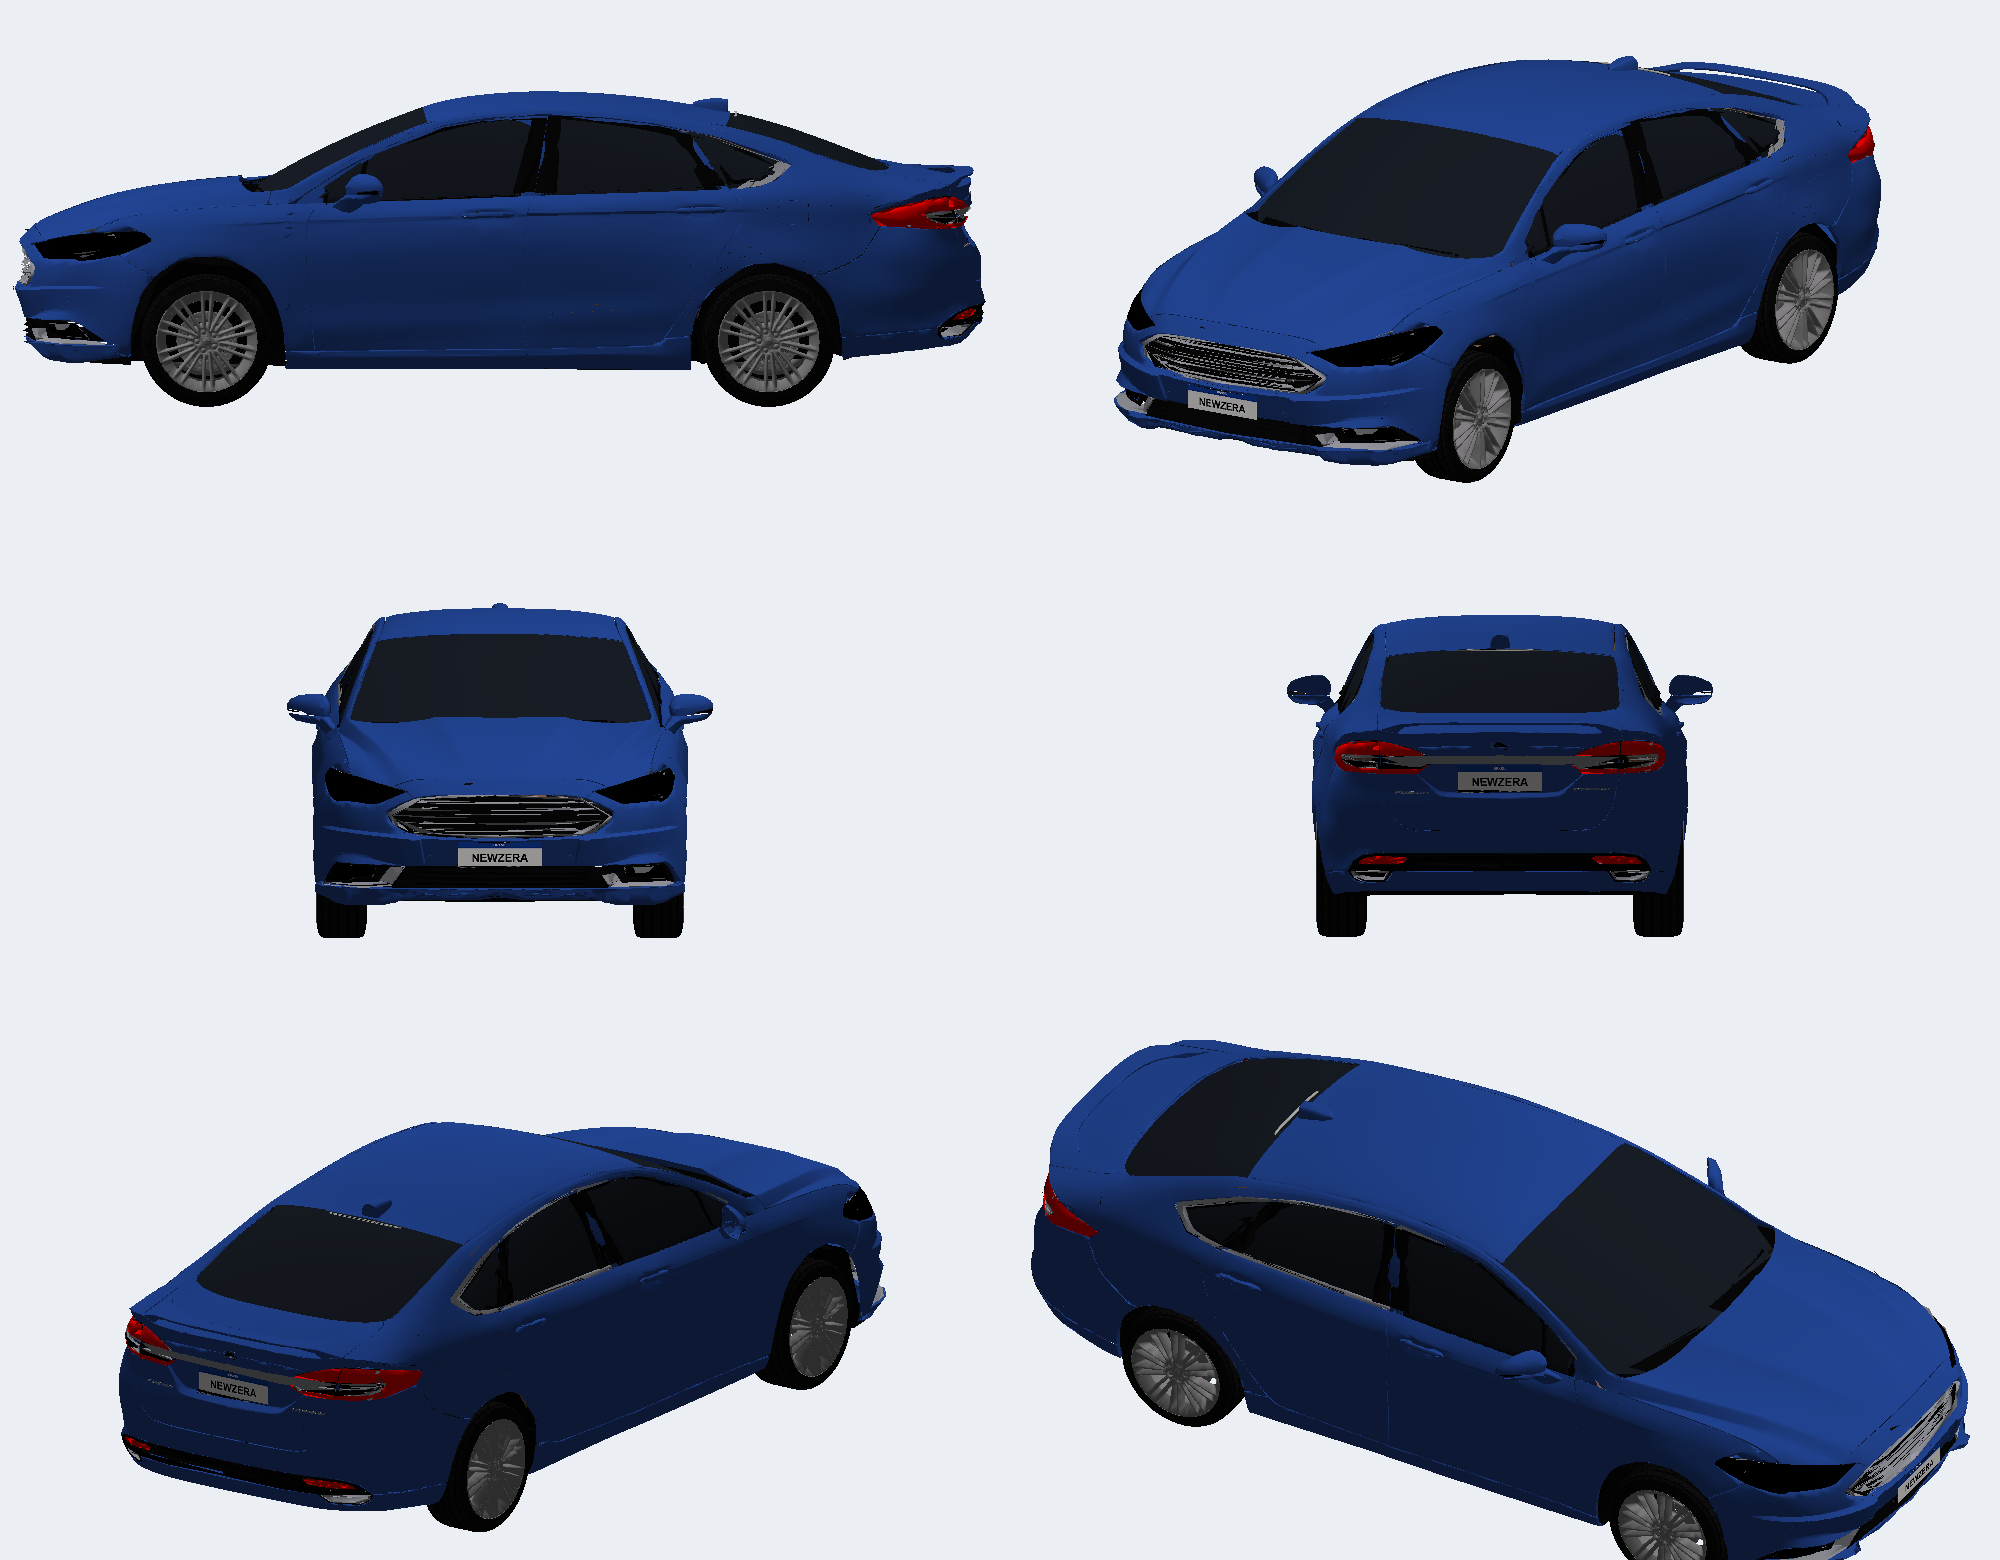
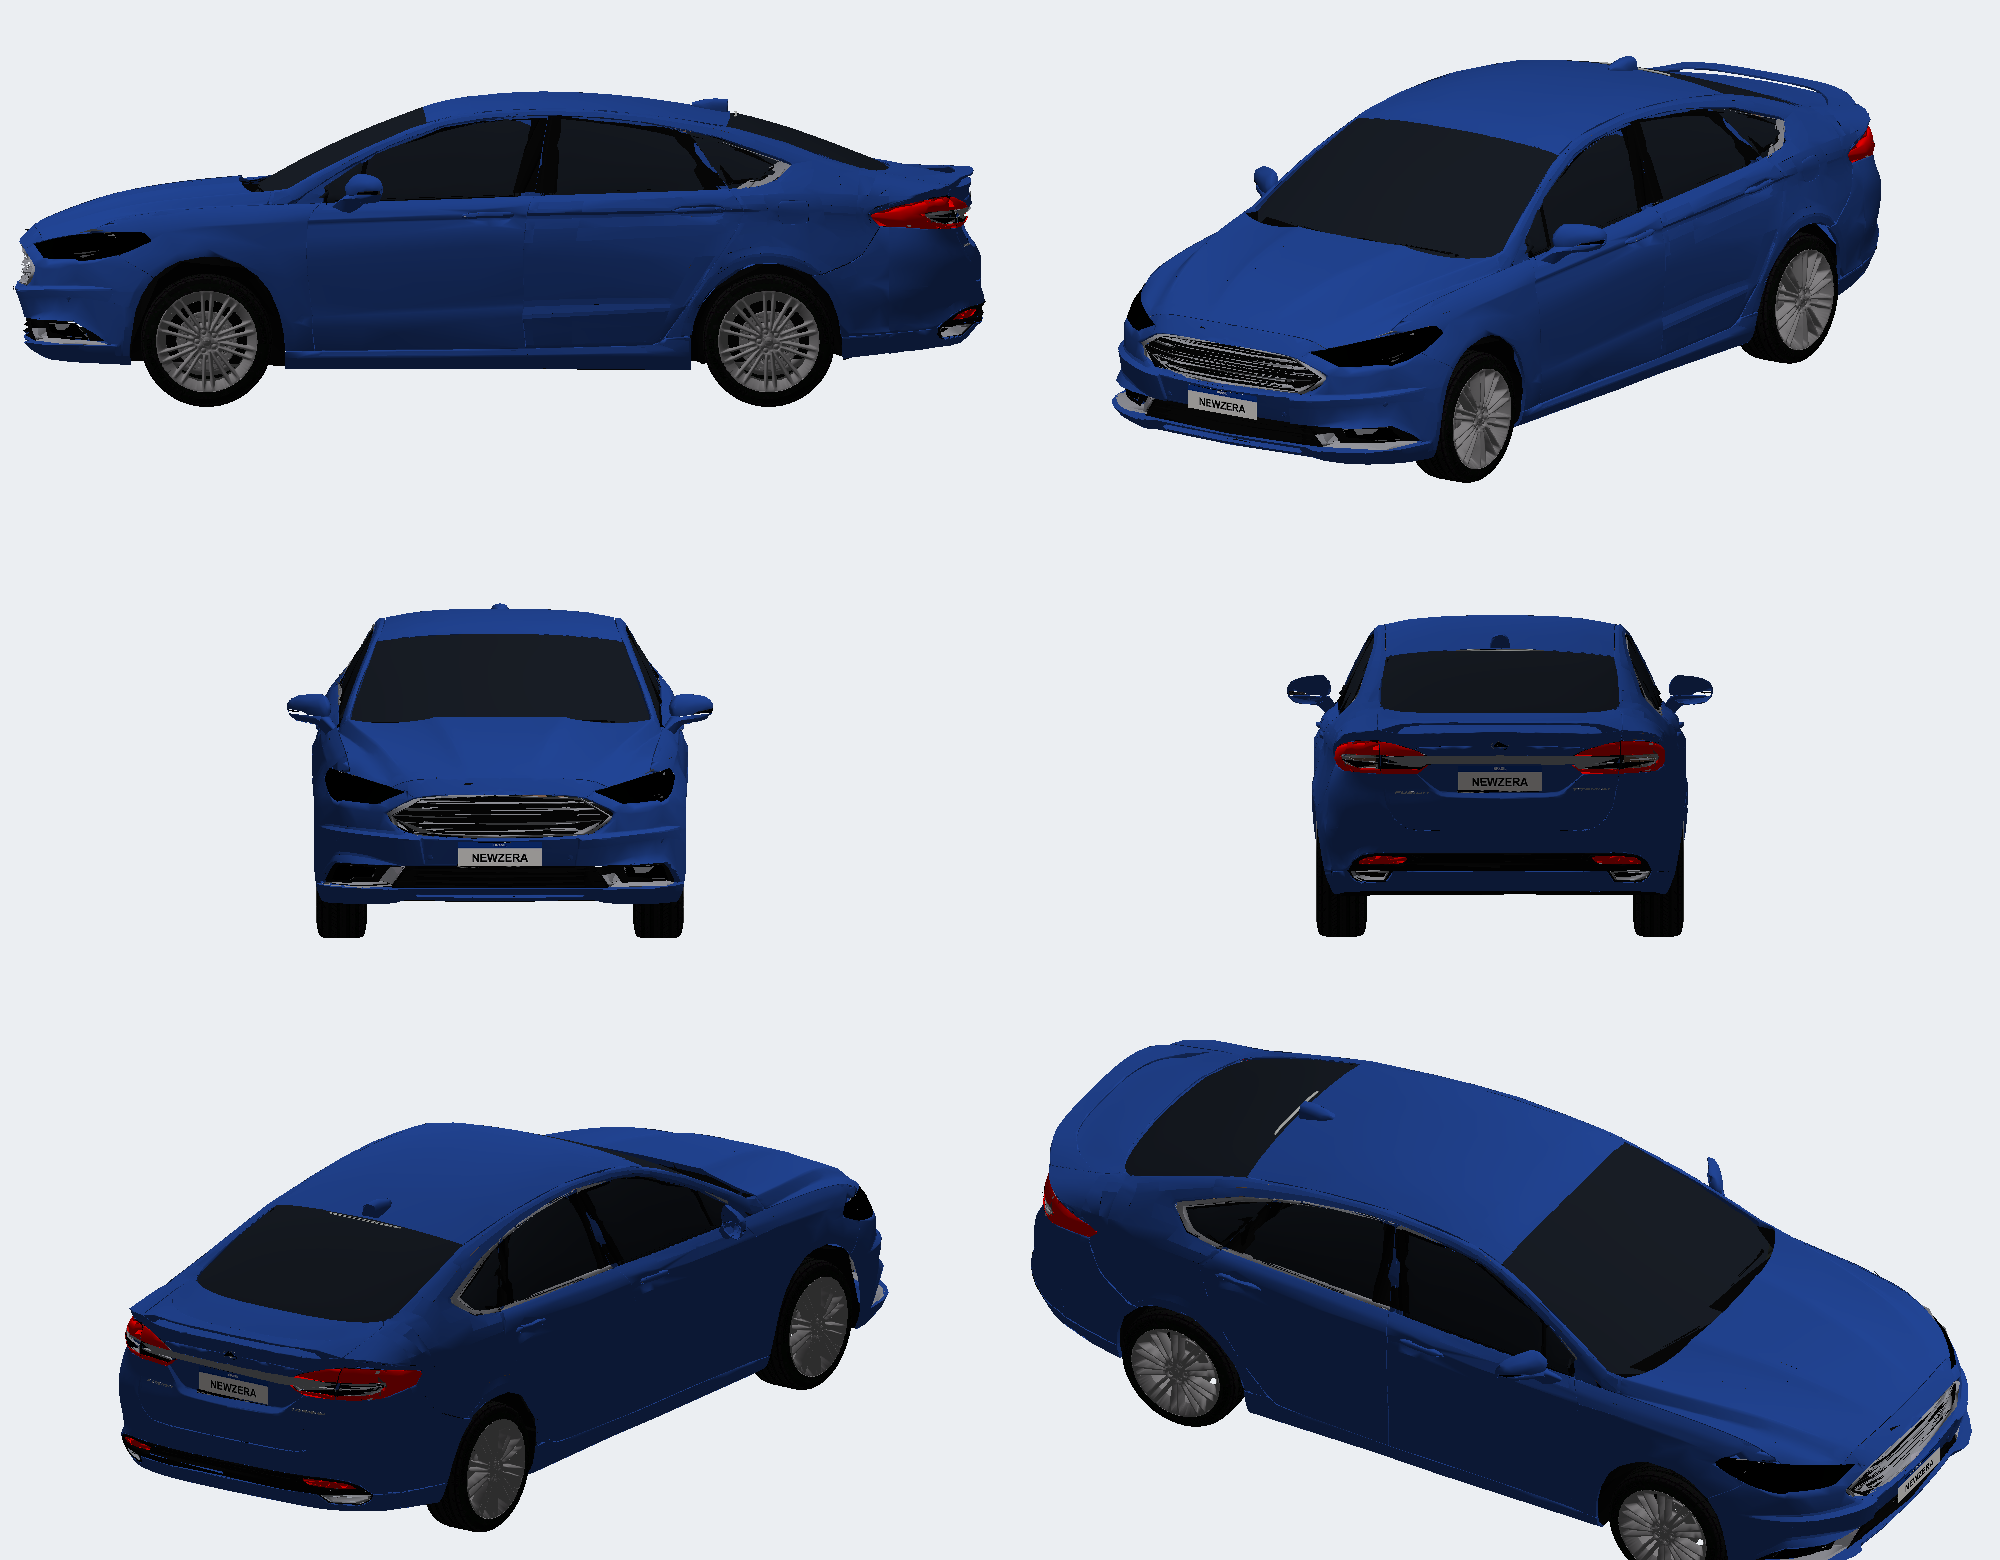
Volta a pintura às peças que o slot desenha (v9).
Na v8 o jogo não desenhou teto, portas e capô: o slot FOCUS só usa
BODY/BASE/TRUNK/WHEEL e adesivos. A pintura volta a ser LOD B com LOD A
no para-choque traseiro, no bico e na frente do teto, dentro dessas peças,
mantendo o bico sem emblema e a UV de vinil do Focus.

Claude-Session: https://claude.ai/code/session_01PkbAhtwcQ6j3iwpeiy6ts8

diff --git a/scripts/build.py b/scripts/build.py
@@ -193,14 +193,24 @@ def fill_recess(m, y0=0.24, z0=0.52, z1=0.70, xmin=2.12):
 
 restA, n_ = fill_recess(restA)
 LOG['nose_recess_filled_vertices'] = n_
-BELT_Z, DOOR_X = 0.95, 1.1
-roofA, lower = clip.split_box(restA, dict(zmin=BELT_Z))
-doors, bodyA = clip.split_box(lower, dict(xmin=-DOOR_X, xmax=DOOR_X))
-doorL, doorR = clip.split_box(doors, dict(ymin=0.0))
-body_paint = bodyA
-hood = outward_only(weld(P['MUSTANGGT_KIT00_HOOD_A']['groups'][0]), 'hood_A', clamp=(1.2, 1.9), zc=0.35)
-noseA = None
-A_parts = dict(roof=roofA, door_left=doorL, door_right=doorR, body=bodyA, trunk=trunk_paint, hood=hood)
+# v9: the FOCUS slot only draws BODY / BASE / TRUNK / WHEEL (+ decals): ROOF_A and DOOR_*_A are ignored
+# (v8 showed no roof, doors or hood). Paint = LOD B + LOD A where the game showed deformations
+# (rear bumper, nose, front edge of the roof); exact cuts so the LODs meet without steps.
+REAR_X, NOSE_X, NOSE_Y = -1.9, 2.0, 0.45
+BOXES = {'rear': dict(xmax=REAR_X), 'nose': dict(xmin=NOSE_X, ymin=-NOSE_Y, ymax=NOSE_Y, zmin=0.52, zmax=0.75),
+         'roof_front': dict(xmin=0.15, xmax=0.6, ymin=-0.5, ymax=0.5, zmin=1.05)}
+bB = body_paint; A_parts = {}
+for nm, box in BOXES.items():
+    _, bB = clip.split_box(bB, box)
+    ins, _ = clip.split_box(restA, box)
+    A_parts[nm] = ins
+rearA = A_parts['rear']
+noseA = merge([A_parts['nose'], A_parts['roof_front']])      # these go into BASE
+BODY_B_TARGET = 14900
+bB = dec(bB, BODY_B_TARGET, 'paint_B_flat')
+body_paint = merge([bB, rearA])
+hood = outward_only(weld(P['MUSTANGGT_KIT00_HOOD_B']['groups'][0]), 'hood_B', clamp=(1.2, 1.9), zc=0.35)
+A_parts['body_B'] = bB
 LOG['paint_lods'] = {k + '_A': int(len(v['tri'])) for k, v in A_parts.items()}
 
 # ---------------------------------------------------------------- lamps (LOD C). Lenses double-sided;
@@ -239,9 +249,7 @@ brake_opaque_in, brake_opaque = split_y(brake_opaque)
 brake_glass_in, brake_glass = split_y(brake_glass)
 VP = lambda m: mesh(vinyluv.apply(m), T_PAINT, M['CARSKIN'])       # paint with vinyl UVs
 body_list = [VP(body_paint)] + head_opaque + head_glass
-roof_list = [VP(roofA), VP(hood)]
-doorL_list = [VP(doorL)]
-doorR_list = [VP(doorR)]
+
 trunk_list = [VP(trunk_paint)] + brake_opaque_in + brake_glass_in
 
 # ---------------------------------------------------------------- BASE
@@ -299,6 +307,8 @@ for g in _baseC:
 for g in groups_of('KIT00_DRIVER_A'):
     base.append(mesh(dec(g, 700, 'driver'), bh('FOCUS_DRIVER'), M['DRIVER']))
 base += brake_opaque
+base.append(VP(hood))
+base.append(VP(noseA))
 # glass (v5): new sheets generated by scripts/newglass.py (needs scipy + contourpy): one clean single-sided
 # surface per window fitted to the MW glass shape, outline widened 30 mm and bent inwards under the frame
 _G = np.load(os.path.join(os.path.dirname(os.path.abspath(__file__)), '..', 'docs', 'vidros_v5.npz')) \
@@ -368,7 +378,7 @@ base_glass = [b for b in base if b['mat'] == M['HEADLIGHTGLASS']]
 base = [b for b in base if b['mat'] != M['HEADLIGHTGLASS']] + [mesh(glass, T_WINDOW, M['WINDSHIELD'])] + base_glass + brake_glass
 LOG['base_parts'] = [(hex(m['tex']), hex(m['mat']), len(m['tri'])) for m in base]
 print(LOG['base_parts'])
-LOG['budget'] = dict(body=ntris(body_list), trunk=ntris(trunk_list), base=ntris(base), roof=ntris(roof_list), door_left=ntris(doorL_list), door_right=ntris(doorR_list))
+LOG['budget'] = dict(body=ntris(body_list), trunk=ntris(trunk_list), base=ntris(base))
 print(LOG['budget'])
 
 # wheel: LOD B of the 20-spoke 18" wheel
@@ -453,15 +463,13 @@ solids = []
 for slot in ['KIT00', 'KITW01', 'KITW02', 'KITW03', 'KITW04']:   # the MW kits share the same paint mesh at LOD B
     solids.append(solid(f'FOCUS_{slot}_BODY_A', body_list, exhaust_markers))
 solids.append(solid('FOCUS_KIT00_TRUNK_A', trunk_list))
-solids.append(solid('FOCUS_KIT00_ROOF_A', roof_list))
-solids.append(solid('FOCUS_KIT00_DOOR_LEFT_A', doorL_list))
-solids.append(solid('FOCUS_KIT00_DOOR_RIGHT_A', doorR_list))
+
 solids.append(solid('FOCUS_BASE_A', base, base_markers))
 solids.append(solid('FOCUS_KIT00_FRONT_WHEEL_A', wheel))
 
 # ---------------------------------------------------------------- v6: decal placement solids
 import decals
-paint_all = merge([body_paint, trunk_paint, hood, roofA, doorL, doorR])
+paint_all = merge([body_paint, trunk_paint, hood, noseA])
 PT = (paint_all['pos'], paint_all['tri'])
 glass_all = merge(_panes)
 GT = (glass_all['pos'], glass_all['tri'])

diff --git a/TODO.md b/TODO.md
@@ -1,12 +1,12 @@
 # TODO — Fusion Titanium 2018 AWD no NFSU2 (slot FOCUS)
 
-Estado em 27/09/2026 (manhã): **v8 instalada, aguardando teste no jogo.** (A v6 também está descrita abaixo.) A v6 ataca os itens A, B e C do teste da
+Estado em 27/09/2026: **v9 instalada, aguardando teste no jogo.** A v8 abriu mas sem teto, portas e capô (ver abaixo). A v6 ataca os itens A, B e C do teste da
 v5 (adesivos, para-brisa, traseira). A v5 trouxe os vidros novos (gerados do zero, sem frestas). A v4 ataca os itens 1–8 da lista abaixo. Leia também [CONTINUACAO.md](CONTINUACAO.md).
 
-- Instalado agora: GEOMETRY `F5F7215C…A569` (v8), TEXTURES `830FD72B…457F` (o da v6),
+- Instalado agora: GEOMETRY da v9 (SHA em README), TEXTURES `830FD72B…457F` (o da v6),
   GlobalB `27F9944B…CF97` (o original do backup **só com as rodas mudadas**: X +1,431 / −1,311, Y ±0,78).
 - Backups (fora do git): v3 em `backup/v3-instalada-2026-09-26/`, GEOMETRY da v4 em `backup/v4-instalada/`,
-  GEOMETRY + TEXTURES da v5 em `backup/v5-instalada/`, da v6 em `backup/v6-instalada/`.
+  GEOMETRY + TEXTURES da v5 em `backup/v5-instalada/`, da v6 em `backup/v6-instalada/`, GEOMETRY da v8 em `backup/v8-instalada/`.
 - Diagnóstico: `docs/diagnostico-v4/` (magenta = face vista por trás, que o jogo não desenha → buraco;
   verde = normal do vértice contrária à face → mancha escura).
 
@@ -39,6 +39,29 @@ nova (Delaunay, pontos a cada 6 cm; 3.174 triângulos no total). O resultado fic
 `.npz`). Textura continua a `WINDOW` (as texturas por janela dos carros originais não existem como
 globais nos arquivos do jogo). Imagens: `docs/diagnostico-v4/v5-vidros-*.png`.
 A faixa preta com o triângulo no alto do para-brisa é a cerâmica do Fusion real (peça da base), não defeito.
+
+## v9 — correção da v8
+
+**Teste da v8 (27/09, `docs/in-game-v8/`):** o carro apareceu sem teto, sem portas e sem capô (motor à mostra).
+**Causa:** o slot FOCUS, como configurado pelo mod do Escort, só desenha `BODY` (e KITW), `BASE`, `TRUNK`,
+`FRONT_WHEEL` e os adesivos. As peças `KIT00_ROOF_A` e `KIT00_DOOR_LEFT/RIGHT_A` são ignoradas.
+**Regra:** toda a pintura tem de caber nessas peças (≤ 21.500 triângulos cada).
+
+A v9 volta a esse layout e mantém o que a v8 trouxe de bom:
+- pintura LOD B (sem porta-malas; 16.964 → 14.900 nas áreas planas) + **LOD A** no para-choque traseiro
+  (x < −1,9), no bico (acima da grade) e na frente do teto (junto ao para-brisa), com cortes exatos;
+  tampa do porta-malas LOD A na `TRUNK_A`; capô LOD B (só a face de cima), bico A e frente do teto A na `BASE_A`;
+- bico sem o emblema Ford e com o rebaixo preenchido;
+- **UV de vinil no molde do Focus** em toda a pintura (`scripts/vinyluv.py`);
+- limites reais nos grupos; escapamentos/difusor da base B;
+- interior reduzido (≈ 3.700 triângulos) para dar lugar ao LOD A.
+
+Peças: carrocerias 21.228 · `TRUNK_A` 18.021 · `BASE_A` 21.255 · roda 8.614 + adesivos.
+
+- [ ] **Testar a v9 no jogo** (carro completo; vinis; adesivos; traseira/bico/teto).
+- [ ] Para usar mais LOD A seria preciso descobrir como o slot pode desenhar mais peças (ex.: editar a lista de
+  peças do FOCUS no GlobalB, que o instalador `.u2car` alterou), ou o jogo aceitar dois sólidos com o mesmo
+  nome (o mod Focus RS tem dois `FOCUS_BASE_A`; não confirmado).
 
 ## v8 — o que mudou (teste da v6: deformações, emblema, vinis)
 

diff --git a/README.md b/README.md
@@ -4,7 +4,7 @@ Substitui o **Ford Focus** (slot `FOCUS`). O modelo vem do port aprovado de Most
 (`fusion-mw2005`, V1prime-z10); os arquivos de lá não foram alterados. O doador de estrutura é o
 **Escort RS** (`source/Ford-Focus-ESCORT-RS`), o mod sedã que já funciona neste jogo.
 
-> **Estado:** a v8 (instalada) usa a pintura inteira do LOD A dividida em carroceria/teto/portas/porta-malas, tira o emblema do bico e mapeia a pintura no molde de vinil do Focus; aguarda teste. Detalhes em [TODO.md](TODO.md).
+> **Estado:** a v9 (instalada) usa pintura LOD B + LOD A nas áreas que deformavam (só nas peças que o slot desenha: carroceria, base, porta-malas), tira o emblema do bico e mapeia a pintura no molde de vinil do Focus; aguarda teste. Detalhes em [TODO.md](TODO.md).
 
 ![prévia](docs/previa-fusion-ug2.png)
 
@@ -70,7 +70,7 @@ O backup do estado anterior (Escort RS + GlobalB) está em `backup/antes-fusion-
 
 | Arquivo instalado | SHA-256 |
 | --- | --- |
[4 lines of base64/hex data omitted]
 
